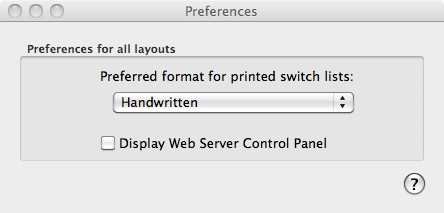
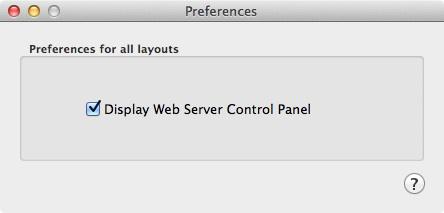
Update docs.  Add new pic for cargo tab, add information on style tab, and extend doc on what kinds of layouts are best for SwitchList.

diff --git a/src/SwitchList.help/Contents/Resources/English.lproj/pgs/pg11.html b/src/SwitchList.help/Contents/Resources/English.lproj/pgs/pg11.html
@@ -13,22 +13,101 @@
 </div>
 <div id="leftspace">
 <p>
-I designed SwitchList for my own layout - a layout that fits in half a garage that is very much a very large switching layout.  Other, similar layouts should
-find SwitchList just right.  If your layout is smaller and focused on switching,
-does not have a large, busy yard, or has few timetable-based freights,
-you may also find it useful.
+There's a few nice switchlist generation programs available for
+home computers.  Most were designed for large layouts and clubs, and
+require lots of work to set up.
+
+SwitchList wants to be different.  It's designed to give people
+with smaller layouts an easy way to begin operations.  Although SwitchList
+might be useful for larger layouts, making life easier for small layout
+owners is our primary goal.
+
+So is SwitchList right for your layout?
+
+<h2>Shelf Layout With Fiddle Yard?</h2>
+If you have a small shelf layout with only a fiddle yard or interchange
+track, SwitchList will work fine.  Treat your interchange track like a
+staging yard.  When you prepare a train to depart from the staging yard,
+set the assigned cars on the interchange track, print a switchlist, and 
+bring the train onto the visible layout.  When the train finishes, put the
+cars away and prepare for tomorrow's session which will have a random
+and different set of cars and industries to switch.
+
+<h2>Layout With Staging Yards and No On-Layout Yard?</h2>
+You'll have a great time with SwitchList on this kind of layout.
+Before each session, set up each train in staging to match the switchlists.
+During the session, pull the trains out of staging, and switch industries.
+On return, you're done.  Tomorrow's session will involve different cars
+and different train lengths.
 <p>
-Although SwitchList could work for layouts with large yards,
-the current yard reports are probably insufficient to help a yard crew
-know how to sort and organize cars in the yard.
+See the <a href="pg81">Vasona Branch example layout</a> or
+<a href="pg80.html">Stockton example layout</a> to see how these kinds of
+layouts can be set up.
+
+<h2>Layouts with Staging Yards and On-Layout Yard</h2>
+SwitchList isn't as helpful when you have a layout requiring significant
+switching.  SwitchList's main constraint is that you aren't required to
+specify the order that trains arrive and leave, so it can be hard to
+predict what cars might come from an earlier train and be switched to a later
+train.
 <p>
-Similarly, although SwitchList can handle through trains stopping at a
-yard, SwitchList would not easily handle cases where cars need to be
-switched between through trains.
+One way to work around this is to break your operating session into two
+halves.  Imagine you've got a staging yard Alpha, an on-layout yard Bravo,
+and an industry at Charlie.
+You can set up trains that go from Alpha to Bravo, and trains that go from
+Bravo to Charlie.  Now, you can take a car from Alpha to Bravo on one train,
+and from Bravo to Charlie on the second.
+<p>
+SwitchList, as it is today, doesn't work well for this model because it
+wants each car to be handled once during an operating session.
+To make this work in SwitchList, you could break your operating session
+into a first half and second half.  At the end of the first session, press
+the "Start New Session" button in the overview tab to end the session and
+create new cars and cargos.  Cars that had come from A to B and are now in
+the yard will be re-assigned to the train from B to C for final delivery.
+Your yard crew will need to sort cars and makeup trains before trains can
+depart.
+<p>
+See the <a href="pg81.html">Waterside Yard example layout</a> and
+<a href="pg83.html">Oakland Repair Depot example layouts</a>
+to see how these kinds of
+layouts can be set up.
+
+<h2>Layouts with Large On-Layout Yards</h2>
+If you have a very large On-Layout Yard that does classification, you
+probably don't want SwitchList or another switchlist generator because
+most switchlist generators won't let you sort the yard based on anything
+other than strict instructions.
+<p>
+For such layouts, I find <a href="http://www.tulsanmra.org/resources/DRS_CardCards.pdf">Car Cards</a> a better approach.  With Car Cards, you use a paper
+card to represent each freight car.  When you assign a cargo to that car,
+you paperclip a separate paper describing the load, the source, and the
+destination.  For large layouts, Car Cards can be really handy because
+a switch crew can simply grab a yard track full of cars, check out their
+next destinations on the car card, and sort the cars into trains.  When
+they're done sorting, they make the cars into a train and give the
+cards to the crew that will switch the cars.  If the yard's switch crew
+works too slow, that's ok too - the train can leave with whatever cars
+are sorted.
 <p>
 If you have ideas on how to make SwitchList more useful for larger layouts,
 drop me a note.
 <p>
+<hr><p><h2>Related Topics:</h2></p>
+<A HREF="pg51.html">Detail: Divisions for cars and industries</a> for
+more details on how a freight car's "Home Division" affects the assigning
+of cars to cargos.
+<p>
+<a href="pg25.html">User Interface: Towns Tab</a> for hints on
+deciding what counts as a town.
+<p>
+<a href="pg80.html">Vasona Branch example layout</a>
+<p>
+<a href="pg81.html">Stockton example layout</a>
+<p>
+<a href="pg82.html">Waterside Yard example layout</a>
+<p>
+<a href="pg83.html">Oakland Repair Yard example layout</a>.
 </div>
 </body>
 </html>

diff --git a/src/SwitchList.help/Contents/Resources/English.lproj/pgs/pg4.html b/src/SwitchList.help/Contents/Resources/English.lproj/pgs/pg4.html
@@ -14,9 +14,15 @@
 </div>
 <div id="leftspace">
 <p>
-SwitchList can draw the switchlist you give your crews in several formats to match your preferences and prototype practice.  You can select the preferred style in the Preferences dialog box.
+SwitchList can draw the switchlist you give your crews in several
+formats to match your preferences and prototype practice.  You can
+select the preferred style in the Style tab for your layout.
+Many switchlists also allow custom settings - places where you can insert
+custom text to make your switchlist specific to your railroad.
 <p>
-Also check the links at the bottom for ways to customize these switchlists.
+If none of the standard switchlist styles match your railroad, you
+can also design your own custom switchlists.  See links at the bottom
+for details.
 <UL>
 <LI>Handwritten
 <p>
@@ -48,12 +54,18 @@ This switchlist explicitly lists the contents of each car, and places
 the origin to the right of the To field, just as on the prototype.
 See Bill Kaufman's article on the San Francisco State Belt Railroad in
 the July 2009 Railroad Model Craftsman for an example of a real
-switchlist.
+Southern Pacific switchlist.
+<p>
+In the custom settings, you can provide an alternate name for the railroad
+at the top of the page.
 <p>
 <li>
 Line Printer
 <p>
 My original switchlist, this one looks computer-generated and lists all the expected fields.
+<p>
+In the custom settings, you can provide an alternate name for the railroad
+at the top of the page.
 <li>PICL Report (contributed by James McNab)
 <p>
 <a href="../../shrd/picl.jpg"><img class="floatRight" src="../../shrd/picl.jpg"></a></a>
@@ -115,9 +127,46 @@ town or in another town, a note will appear in the "notes" section.
 <p>
 SwitchList assumes that cars are being taken from and returned to the yard where the train starts.  The Form B-7 may
 be unrealistic if your train stops at intermediate yards.
+<p>
+In the custom settings, you can provide an alternate name for the railroad
+title and subtitle on the form.  Note that each page of the B-7 has a different
+serial number.
+<p>
+<li>Railroad Letterhead (contributed by Glyn Thomas)</li>
+<p>
+<A HREF="../../shrd/railroad_letterhead.jpg"><img class="floatRight" src="../../shrd/railroad_letterhead.jpg"></a>
+<p>
+Modern short lines resemble modern offices more than they resemble old-time
+railroads, and their switchlists reflect that.  Railroad Letterhead
+recreates the switching instructions typed by the general manager or owner
+of the shortline on the office computer, and printed on an available piece
+of company stationery.
+<p>
+Railroad Letterhead allows customizing four details of the switchlist:
+the railroad name and subtitle/owner's name in the center, the railroad's
+location to the left, and contact information to the right.  Each can contain
+any text you like.  You can use HTML like you'd use to create a web page to
+customize the content; "&lt;br&gt;" provides a line break to permit any of
+these fields to draw as multiple lines.
+<li>Waybill
+<p>
+<A HREF="../../shrd/waybill_style.jpg"><img class="floatRight" src="../../shrd/waybill_style.jpg"></a>
+<p>
+The Waybill style is an experimental switchlist style that prints out
+separate documents that reproduce the actual billing paperwork carried by
+real railroads.  Waybills describe not only the car, its origin, and destination,
+but the cargo, kind of car, and routing information.
+<p>
+To use the Waybill switchlist style, you can print out the individual waybills
+and cut them out into individual pages.
+The Waybill style cannot be customized from within SwitchList, but if you
+have web development skills, you can modify the Waybill style to provide
+realistic car routing instructions.  
 </ul>
 <p>
 <hr><p><h2>Related Topics:</h2></p>
+<p>
+<A HREF="pg33.html">User Interface: Style Tab</A>
 <p>
 <A HREF="pg201.html">Creating Custom SwitchList Styles</A>
 </div>

diff --git a/src/SwitchList.help/Contents/Resources/English.lproj/pgs/pg27.html b/src/SwitchList.help/Contents/Resources/English.lproj/pgs/pg27.html
@@ -32,6 +32,8 @@ random rate ("fixed rate" checkbox), what freight car type can carry the cargo,
 and the number of freight cars per day, week, or month that should be generated.
 Any of these settings can be changed at any time.
 <p>
+<h2>Sources and Destinations</h2>
+<p>
 Cargo sources and destinations can be any industry listed in the Industries tab.
 Industries can be real industries on real sidings on the layout, or can be imaginary industries
 somewhere off the layout.  A car destined for an industry located either in a town listed as "staging"
@@ -49,9 +51,13 @@ Sources and destinations also indicate how full a particular siding can be.  You
 If a particular source or destination is marked as "Busy" or "Overloaded", be careful about creating more
 cargos, or consider whether you can cut the number of cars currently being sent.
 <p>
+<h2>Freight Car Type</h2>
+<p>
 Each cargo may only be carried by one type of freight car.  If you want the
 same cargo to be carried by multiple cars ("both 40' and 50' boxcars"),
 consider creating separate cargos for each car type.
+<p>
+<h2>Unloading Time</h2>
 <p>
 The unloading rate setting allows you to adjust how fast cars carrying a cargo can unload that cargo and dash off for their next job.
 Normally, the unloading rate is 1 day - any car arriving in the current operating session
@@ -59,6 +65,8 @@ will leave in the next operating session.
 The unloading rate makes operations more challenging by forcing crews to move and replace cars staying behind as they drop off or pick up other cars.
 Your layout will appear more like a real railroad.
 This setting can also clog up your layout or cut the number of cars your crews get to move, so use it cautiously.
+<p>
+<h2>Car Rate</h2>
 <p>
 The rate setting decides how often the cargo should appear
 on the layout. Cargo rates can be set in terms of the number of cars per day, per week, or per
@@ -75,6 +83,7 @@ and three in the next session.  That randomness ensures that no two
 operating sessions should appear the same.
 If SwitchList chooses a particular cargo but none of the freight cars
 needed are available, then the cargo is ignored.
+</p>
 <p>
 Specifically, SwitchList assigns cargos by first sweeping through the list of fixed rate cargos and putting
 the appropriate number of each into the collection of today's cargos.

diff --git a/src/SwitchList.help/Contents/Resources/English.lproj/pgs/pg33.html b/src/SwitchList.help/Contents/Resources/English.lproj/pgs/pg33.html
@@ -1,0 +1,47 @@
+<html>
+<head>
+<TITLE>User Interface: Style Tab</TITLE>
+<link href="../../shrd/switchlist.css" rel="stylesheet" type="text/css" media="all" />
+</head>
+<BODY>
+<a name="SwitchListPreferencesHelp">
+<div id="headerbox"><div id="iconbox">
+  <A HREF="../SwitchList.html">
+    <img id="iconimg" src="../../shrd/lantern-help.png" alt="SwitchList Icon" height="32" width="32" />
+  </a>
+</div>
+<H1>User Interface: Style Tab</H1>
+</div>
+<div id="leftspace">
+<p>
+<A HREF="../../shrd/styles_tab.jpg"><img class="floatRight" src="../../shrd/styles_tab.jpg"></a>
+The Style tab in the layout window controls which switchlist style you use
+for your layout.
+You'll be able to choose between any of the <a href="pg4.html">standard Switchlist document styles</a>,
+as well as any <a href="pg201.html">custom switchlists</a>
+you've created and installed on your computer.
+<p>
+To choose a different switchlist style, use the pull-down menu on the left to
+choose a switchlist by name.  The text below the button will change to explain
+a bit about that switchlist style, and the box to the right will show an
+example of the switchlist.  Click on the example to see a full-size version.
+<p>
+The table below the pull-down allows you to customize some text in the
+switchlist.  To customize, just double-click on a value in the right column,
+and type your preferred text.  Your text is rendered into the switchlist
+as if it were a web page, so many of the formatting tricks that work
+for web pages also work in switchlists.  "&lt;br&gt;", for example will
+insert a line break; "&lt;b&gt;My Name&lt;b&gt;" will draw My Name in bold
+text.
+<p>
+<hr><p><h2>Related Topics:</h2></p>
+<p>
+<a href="pg54.html">"SwitchLists on the iPad"</a>
+<p>
+<A HREF="pg4.html">Switchlist styles</a>
+<p>
+<a href="pg201.html">Creating custom switchlist styles</a>
+<p>
+</div>
+</body>
+</html>

diff --git a/src/SwitchList.help/Contents/Resources/English.lproj/pgs/pg29.html b/src/SwitchList.help/Contents/Resources/English.lproj/pgs/pg29.html
@@ -19,23 +19,13 @@ Preferences that apply to all layouts are set from the Preferences pane.  You ca
 choosing the "Preferences..." menu item in the 
 SwitchList menu and changing settings in the pane.
 <p>
-There are two settings in Preferences: it controls the kind of switch list that is displayed, and
-also controls whether the
+There is one setting in Preferences: it controls whether the
 <a HREF="pg54.html">"Switchlists on the iPad" feature</a>
 is enabled.
-<p>
-To change the kind of switchlists displayed, pull down the menu and select the switchlist you prefer.
-You'll be able to choose between any of the <a href="pg4.html">standard Switchlist document styles</a>,
-as well as any <a href="pg201.html">custom switchlists</a>
-you've created and installed on your computer.
 <p>
 <hr><p><h2>Related Topics:</h2></p>
 <p>
 <a href="pg54.html">"SwitchLists on the iPad"</a>
-<p>
-<A HREF="pg4.html">Switchlist styles</a>
-<p>
-<a href="pg201.html">Creating custom switchlist styles</a>
 <p>
 </div>
 </body>

diff --git a/src/SwitchList.help/Contents/Resources/English.lproj/pgs/pg201.html b/src/SwitchList.help/Contents/Resources/English.lproj/pgs/pg201.html
@@ -21,7 +21,7 @@ or you'd like to match the look of your favorite railroad's paperwork.
 <p>
 Luckily, SwitchList is customizable; by creating an HTML file that describes your switchlist's
 appearance and dropping it in a special location on your computer, your switchlist style will
-appear as a choice in the <A HREF="pg29.html">Preferences pane.
+appear as a choice in the <A HREF="pg33.html">Style tab.
 </p>
 <p>Full details are available at the <a href="http://code.google.com/p/switchlist/wiki/SwitchListTemplatesInHTML">SwitchList development site</a>
 over on code.google.com, but here's a quick rundown.
@@ -92,7 +92,7 @@ to match your switchlist paperwork.  Check out the SwitchList development site f
 <p>
 <A HREF="pg5.html">SwitchList Reports</a>
 <p>
-<A HREF="pg29.html">User Interface: Preferences Pane</A>
+<A HREF="pg33.html">User Interface: Style Tab</A>
 <p>
 <A HREF="pg202.html">Customization: Change default home page for SwitchList web interface.</a>
 

diff --git a/src/SwitchList.help/Contents/Resources/English.lproj/pgs/pg54.html b/src/SwitchList.help/Contents/Resources/English.lproj/pgs/pg54.html
@@ -31,8 +31,8 @@ SwitchList data.  By connecting to the web site that it names from an
 iPad or other computer on the same home network, you can view the
 trains and freight cars on your layout.
 <P>
-The "View Switchlists on iPad" feature is still under development.
-You can currently view switchlists, view 
+The "View Switchlists on iPad" allows you to
+view switchlists, view 
 car locations, mark trains as complete, and change car locations.
 <p>
 Let me know if you find this feature interesting, or have ideas for

diff --git a/src/SwitchList.help/Contents/Resources/English.lproj/pgs/pg20.html b/src/SwitchList.help/Contents/Resources/English.lproj/pgs/pg20.html
@@ -24,6 +24,7 @@ Detailed descriptions of each portion of the SwitchList user interface.
 <li><A HREF="pg26.html">Trains Tab</a>
 <li><A HREF="pg22.html">Yards Tab</a>
 <li><A HREF="pg23.html">Layout Tab</a>
+<LI><A HREF="pg32.html">Style Tab</a>
 <li><A HREF="pg29.html">Preferences Window</a>
 <LI><A HREF="pg30.html">Set Train Stops Window</a>
 <LI><A HREF="pg31.html">Problems Window</a>
